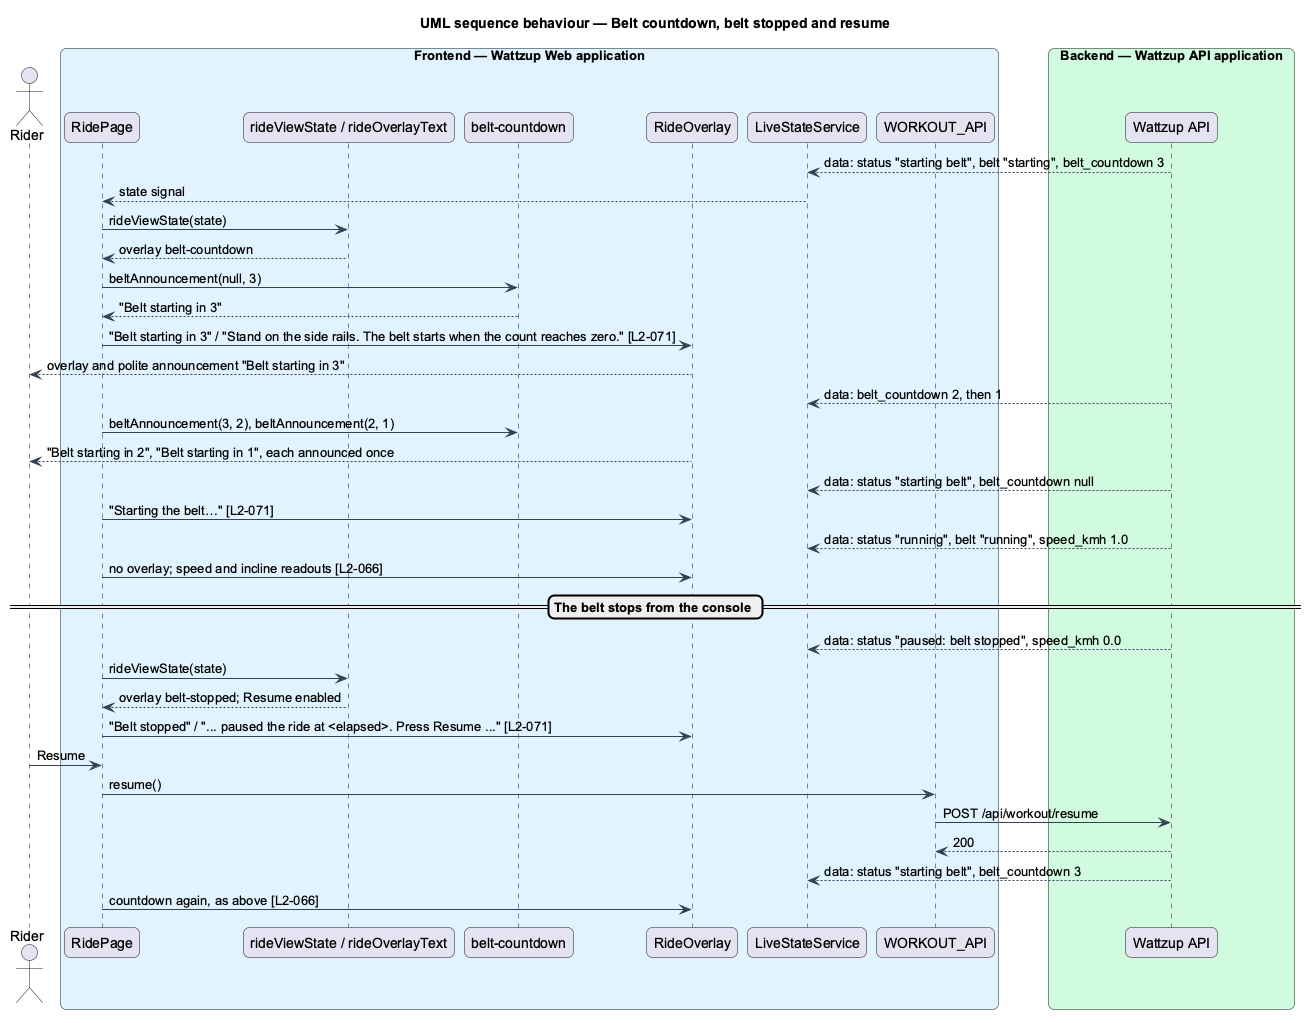
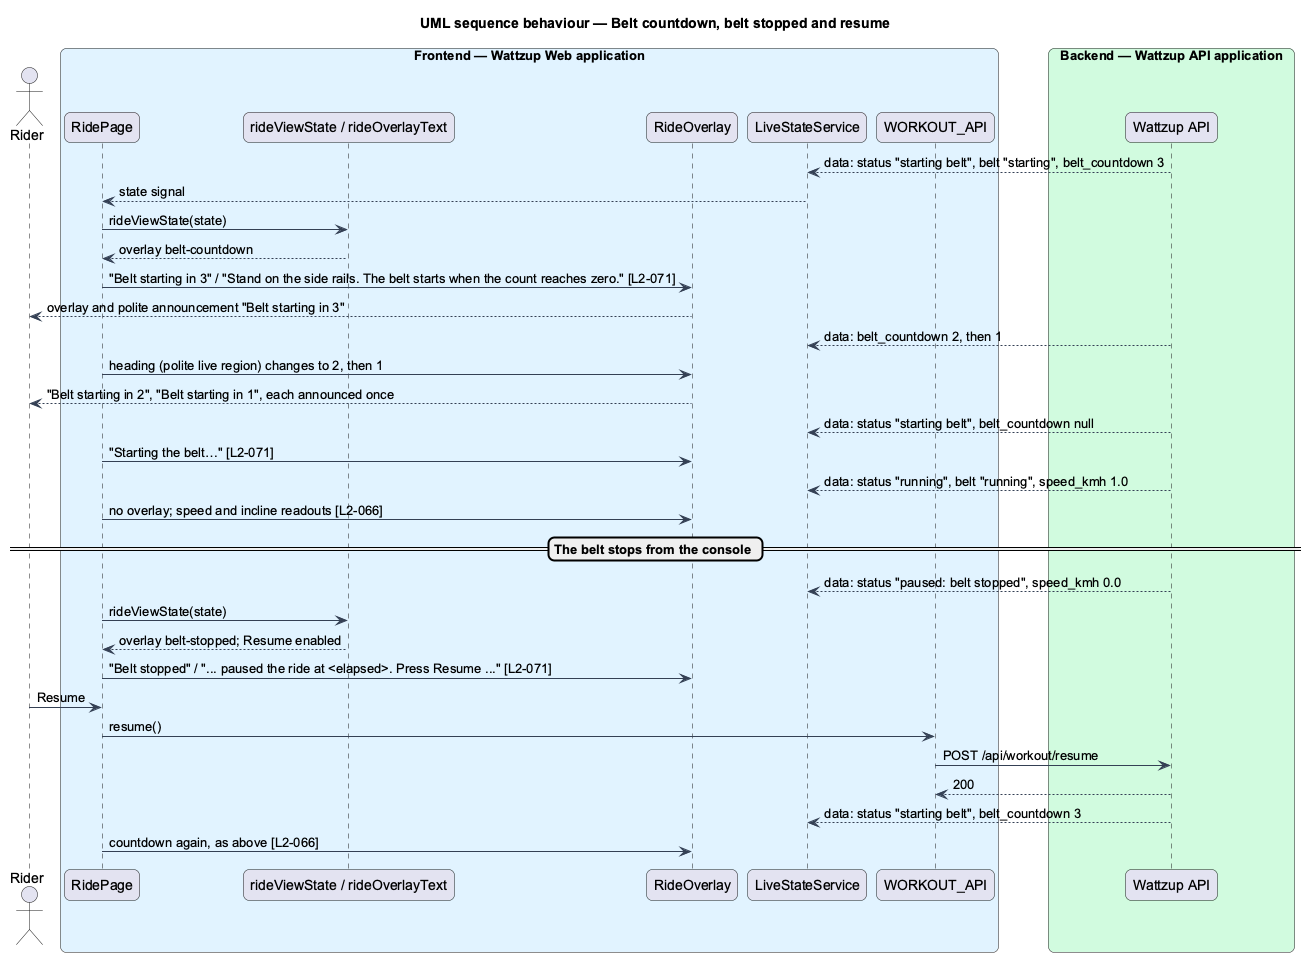
Align the treadmill dashboard design with the frontend (live-region countdown, chosen copy as open questions)

diff --git a/docs/detailed-designs/treadmill/treadmill-dashboard-and-setup/README.md b/docs/detailed-designs/treadmill/treadmill-dashboard-and-setup/README.md
@@ -58,7 +58,6 @@ Each helper lives in `frontend/src/app/core/`, has its unit tests beside it, and
   - `baseSpeed(state)` is the reported speed, else `target_speed`, else 7.0. `stepSpeed(state, dir)` adds or subtracts 0.5 km/h, clamped to 1.0–16.0 and rounded to 1 decimal.
   - `baseIncline(state)` is the reported incline, else `target_incline`, else 0. `stepIncline(state, dir)` adds or subtracts 1 %, clamped to 0–15.
   - `treadmillControlsState(state, commandsEnabled)` returns the four disabled flags and a note. Each button is disabled at its limit (1.0 or 16.0 km/h, 0 or 15 %). With `ble` not `connected`, every button is disabled and the note reads `Speed and incline controls wake up once the treadmill connects.`
-- **`belt-countdown.ts`** — `beltAnnouncement(previousCountdown, countdown)` returns `Belt starting in <n>` only when `belt_countdown` changes to a new number, else `null`. The polite live region therefore announces each number once (L2-071 criterion 8).
 - **`treadmill-plan-form.ts`** — the treadmill plan draft's rules (L2-072):
   - `TreadmillPlanDraft` holds the mode, Rounds, Work, Recover, Work speed, Recover speed, Work incline, Recover incline, the warm-up and cool-down switches, and the flat Speed, Incline and Duration.
   - `DEFAULT_TREADMILL_DRAFT` is HIIT with 18 rounds, work 0:40, recover 0:20, work speed 9.0, recover speed 7.0, both inclines 0, warm-up and cool-down on; its flat fields are 7.0 km/h, 0 % and 30 minutes (L2-072 criteria 4 and 5).
@@ -89,7 +88,7 @@ Each component is standalone, `OnPush`, and split into `name.ts`, `name.html` an
 | `InclineControl` | `wz-incline-control` | `Lower incline` and `Raise incline` buttons, mirroring `LevelControl` |
 | `MetricsStrip` | `wz-metrics-strip` | On the treadmill: heart rate (`--` `bpm`), distance (`<n.nn>` `km`) and pace (`m:ss` `/km`); average power and energy are not shown (L2-071 criterion 4) |
 | `RidePage` | `wz-ride-page` | With `machine` `treadmill`, shows the speed and incline readouts in place of power and cadence, and drops `wz-ride-trace`. The aside is labelled `Treadmill control` and titled `Speed and incline`, and holds the two controls, the controls note, `wz-plan-note` and `wz-cmd-log` |
-| `RideOverlay` | `wz-ride-overlay` | Renders the three belt overlays. The countdown numeral is shown large; the announcement goes to a polite live region fed by `beltAnnouncement` |
+| `RideOverlay` | `wz-ride-overlay` | Renders the three belt overlays. The countdown numeral is shown large and hidden from assistive technology; the overlay's heading, `Belt starting in <n>`, is itself the polite live region, so each number is announced once as the heading changes (L2-071 criterion 8) |
 | `CmdLog` | `wz-cmd-log` | Titled from `machineWords(machine).panelTitle`; each entry reads `commandLabel(entry)` with `· <source>` and its status |
 | `EndRideDialog` | `wz-end-ride-dialog` | On the treadmill reads `You're <elapsed> into <total>. Wattzup stops the belt.` (L2-071 criterion 12) |
 | `ReplaceRideDialog` | `wz-replace-ride-dialog` | On the treadmill adds `Wattzup stops the belt first, then counts down 3 seconds before starting it again.` (L2-071 criterion 12) |
@@ -141,6 +140,11 @@ Playwright (`frontend/e2e/`), Chromium only. The shared fixture answers every `/
 Unit tests in `src/app/core/`: `machine-words.spec.ts`, `pace.spec.ts` (9.0, 0, `null`), `treadmill-view.spec.ts`, `treadmill-controls.spec.ts` (each base fallback and each limit), `belt-countdown.spec.ts`, `treadmill-plan-form.spec.ts` (one case per row of the L2-067 table and its messages), `plan-draft.store.spec.ts` (the treadmill key), `plan-expansion.spec.ts` (the same rows as the backend's treadmill `PlanExpanderTests` and the flat summary), `ride-preview.spec.ts` (top speed and expected distance), and the treadmill cases of `segment-labels`, `ride-view-state`, `ride-overlay-text`, `connection-status`, `connection-banners`, `cue-text` and `command-log-view`.
 
 ### Open questions
+
+- **Copy the requirements do not give.** The implementation uses: flat plan note `Holding a flat speed and incline for the whole ride.`; manual plan note `Manual speed and incline. Plan takes over next interval.`; shut-off overlay `Ride ended — the treadmill shut off`; reconnected banner `<label> is back. The ride is paused at <t> — press Resume to start the belt again.` (the bike's wording would promise a resistance, and L2-066 criterion 8 keeps the ride paused); recover phase detail `0:20 · next: Work at 9.0 km/h`. L2-071 should adopt or replace them.
+- **Bike wording left on the treadmill:** the network-sharing banner, the offline note and the loading skeleton (the machine is unknown before the first state).
+- **Machine switch failure.** `setup/machine-failed.html` shows no alert; the implementation places a danger alert after the fieldset with L2-072 criterion 2's wording and reverts the choice. The radio group shows no busy state while the request runs.
+- **"Setting <n>…"** shows while the reported speed is more than 0.05 km/h from the target, the tolerance of L2-068 criterion 5.
 
 - **Choice in the browser while a request runs.** L2-072 criterion 2 switches the form when the request is sent and reverts on failure. Between the two, a state message still carries the old `machine`. The page shows the chosen machine until the request settles, then follows the state. `<TO SUPPLY>` whether the mocks show a busy state for the radio group.
 - **Draft per machine.** L2-072 criterion 9 restores the last submitted plan for each machine, so the design keeps two storage keys. The bike key keeps its name so existing drafts survive.
